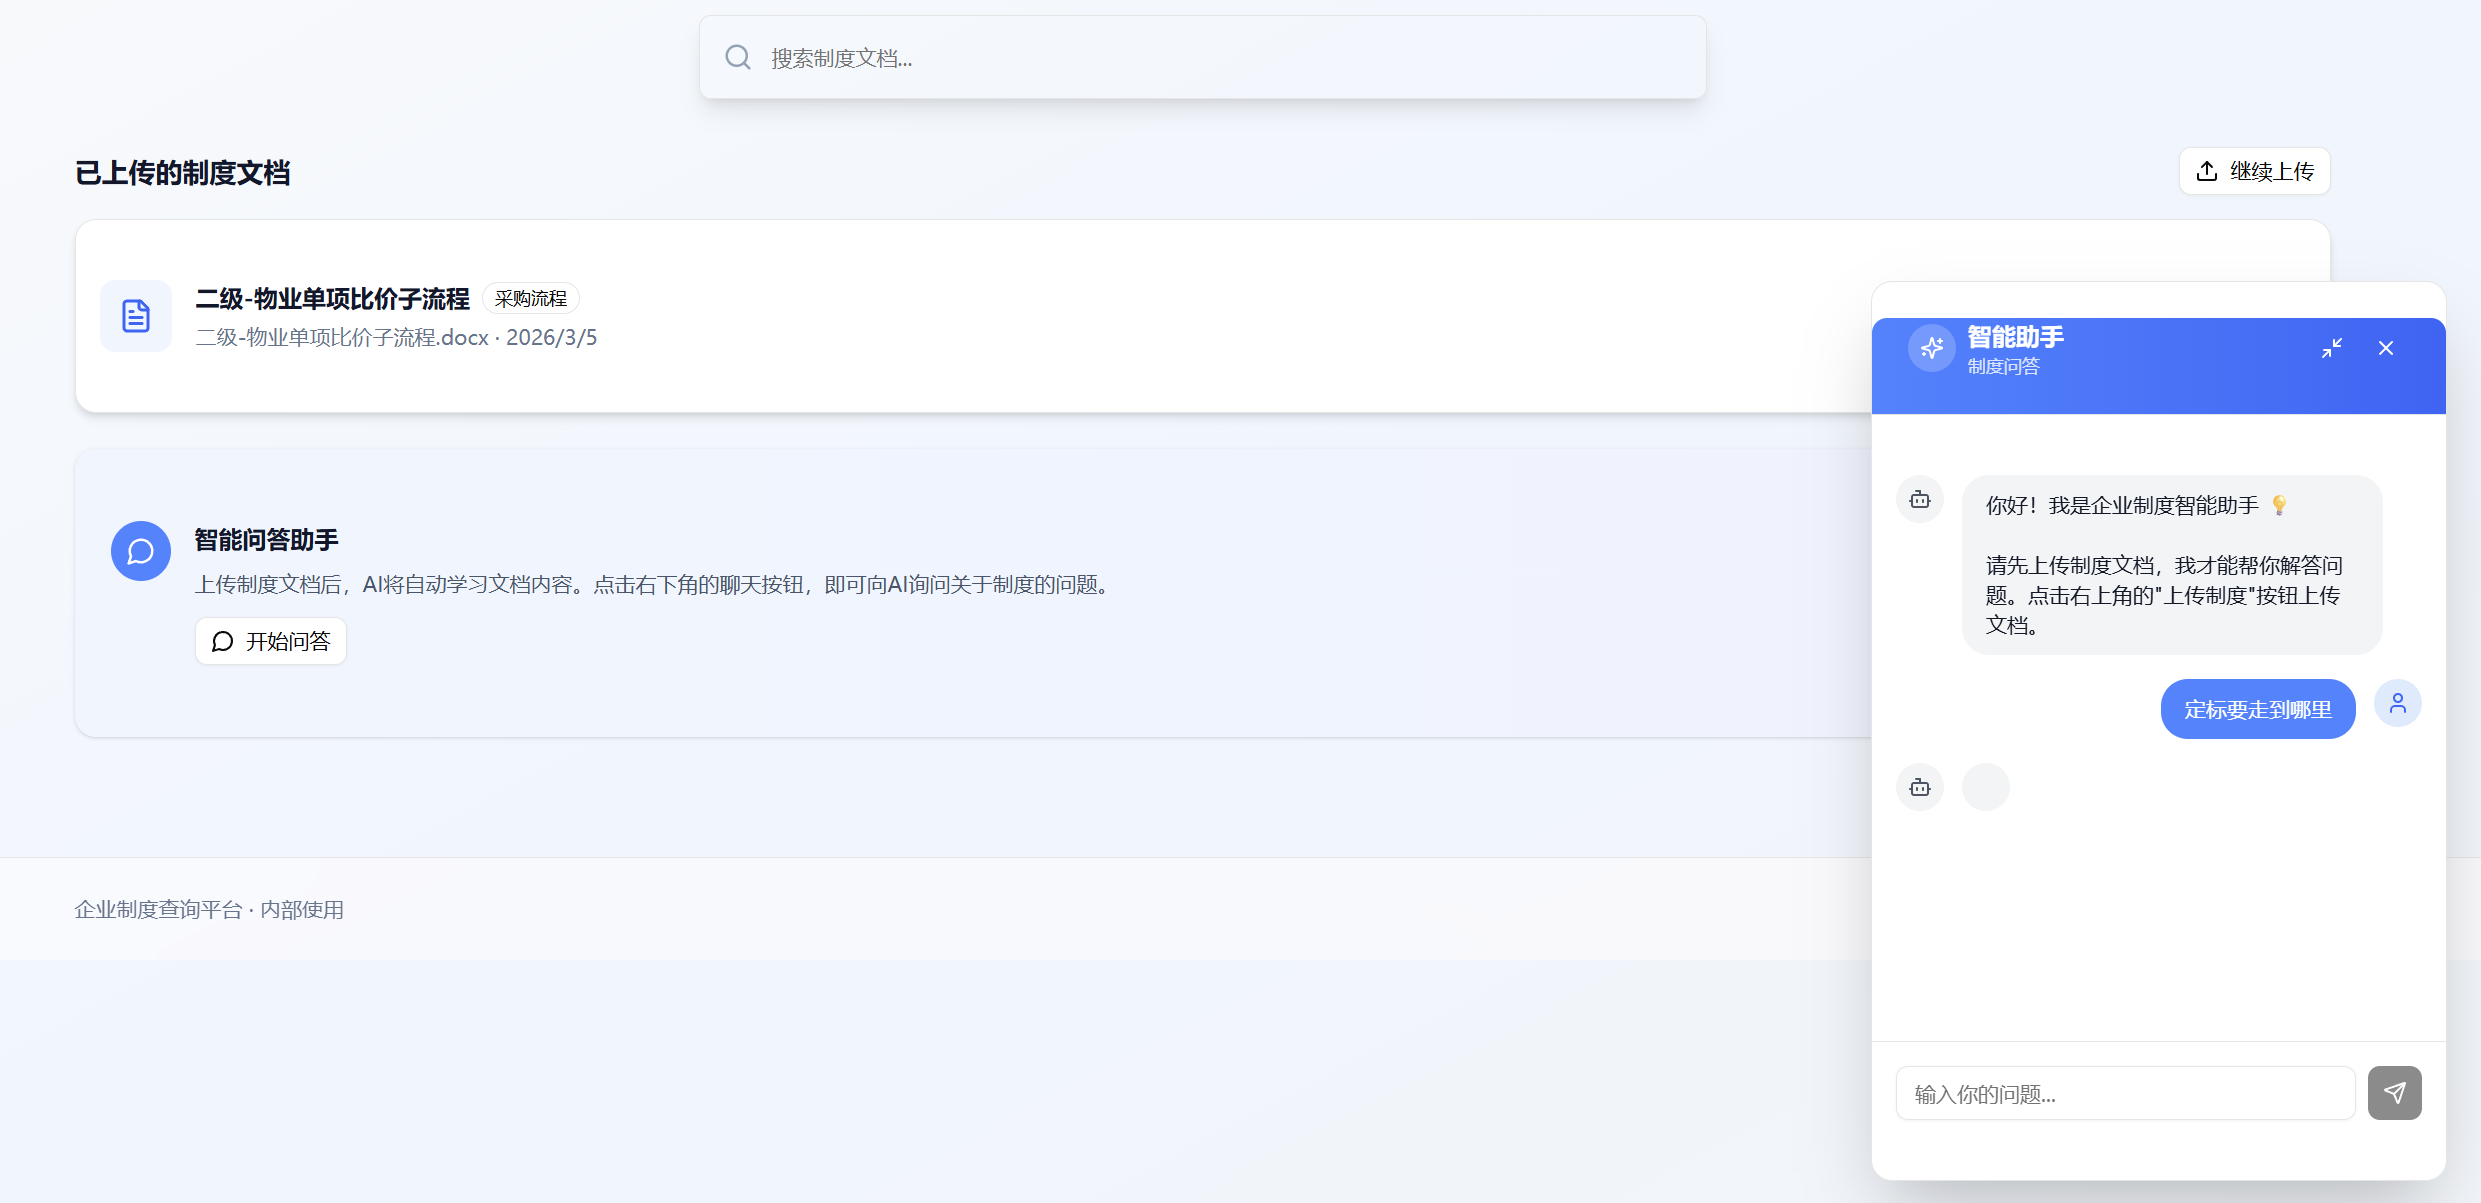
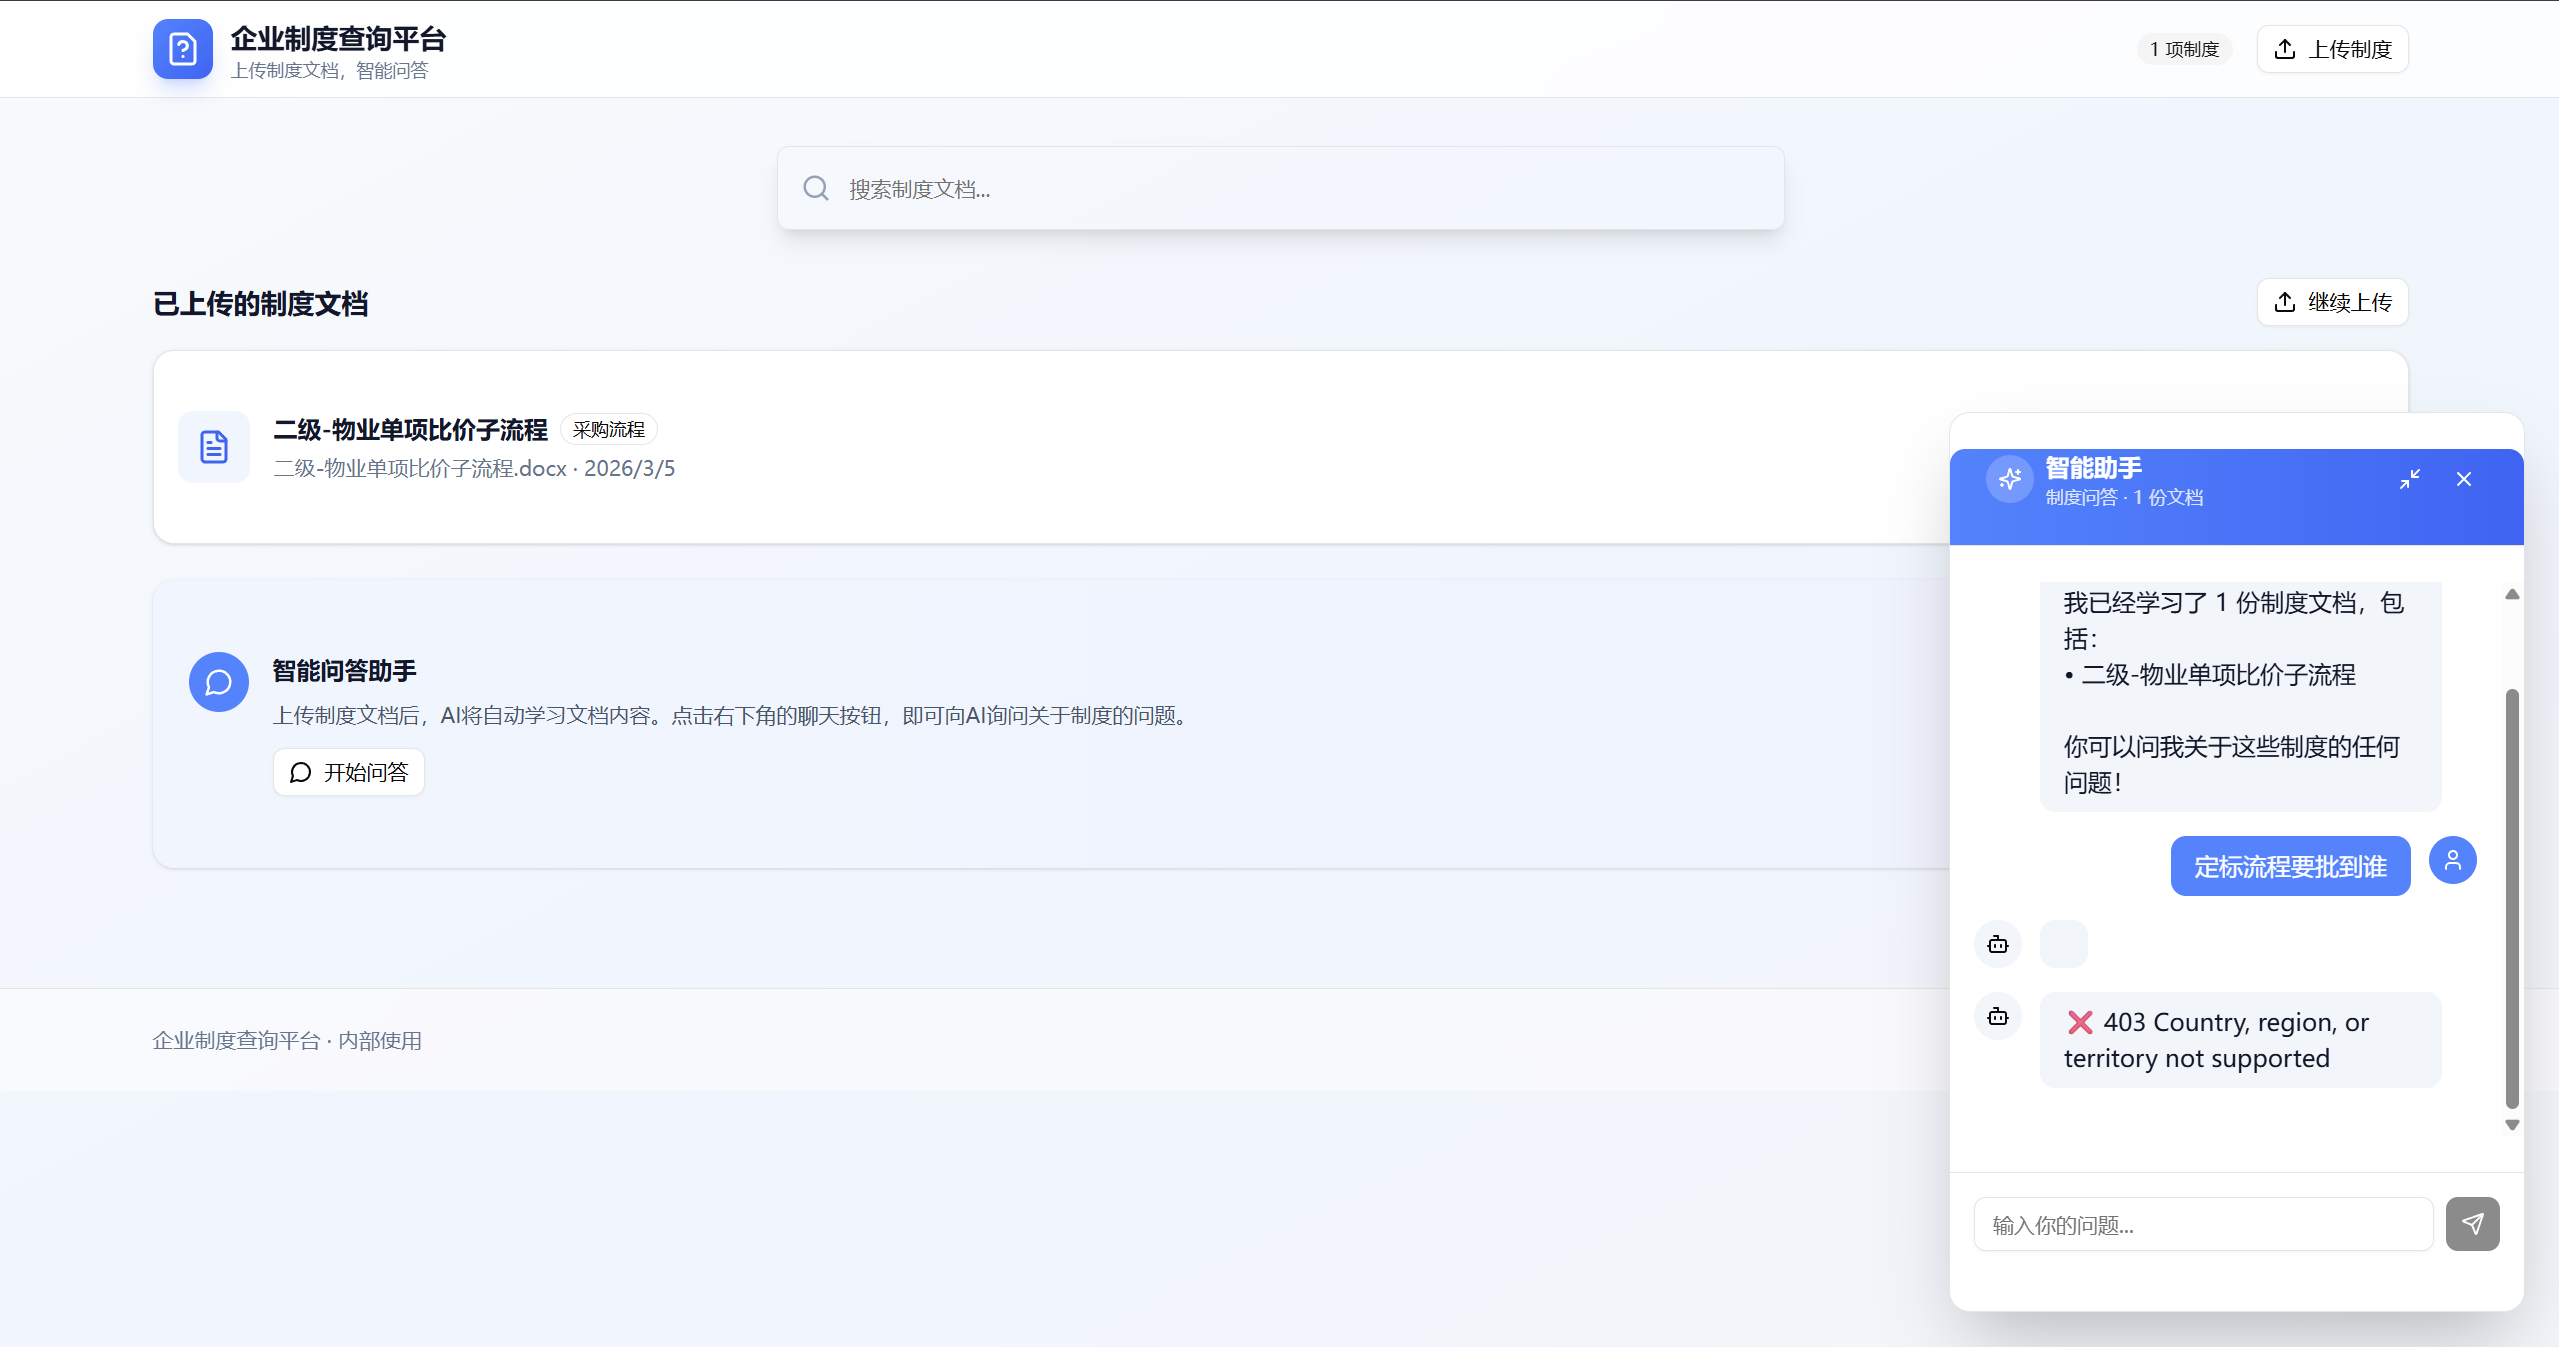
fix: 改用 DeepSeek API 解决地区限制问题
- 移除对火山引擎豆包 API 的依赖
- 支持 DeepSeek API（国内可直接访问）
- 同时兼容 OpenAI API
- 更新 README 配置说明

diff --git a/src/app/api/chat/route.ts b/src/app/api/chat/route.ts
@@ -1,5 +1,4 @@
 import { NextRequest } from 'next/server';
-import { LLMClient, Config } from 'coze-coding-dev-sdk';
 
 // 构建制度知识库上下文
 function buildKnowledgeContext(documents: any[]): string {
@@ -23,14 +22,17 @@ function buildKnowledgeContext(documents: any[]): string {
 
 export async function POST(request: NextRequest) {
   try {
-    // 检查 API Key 配置
-    const apiKey = process.env.DOUBAO_API_KEY;
+    // 检查 API Key 配置 - 支持 DeepSeek 或 OpenAI
+    const apiKey = process.env.DEEPSEEK_API_KEY || process.env.OPENAI_API_KEY;
+    const apiBaseUrl = process.env.DEEPSEEK_API_KEY 
+      ? 'https://api.deepseek.com/v1'
+      : process.env.OPENAI_API_BASE || 'https://api.openai.com/v1';
     
     if (!apiKey) {
-      console.error('DOUBAO_API_KEY not configured');
+      console.error('API Key not configured');
       return new Response(JSON.stringify({ 
         error: 'API Key 未配置',
-        message: '请在 Vercel 环境变量中配置 DOUBAO_API_KEY。\n\n获取方式：\n1. 访问 https://console.volcengine.com/ark\n2. 注册/登录火山引擎\n3. 开通豆包大模型服务\n4. 创建 API Key 并复制\n5. 在 Vercel 项目设置 → Environment Variables 中添加 DOUBAO_API_KEY'
+        message: '请在 Vercel 环境变量中配置 DEEPSEEK_API_KEY 或 OPENAI_API_KEY。\n\n推荐使用 DeepSeek（国内可直接访问）：\n1. 访问 https://platform.deepseek.com\n2. 注册/登录账号\n3. 创建 API Key\n4. 在 Vercel 添加环境变量 DEEPSEEK_API_KEY'
       }), {
         status: 500,
         headers: { 'Content-Type': 'application/json' },
@@ -49,10 +51,6 @@ export async function POST(request: NextRequest) {
 
     // 检查是否有文档
     const hasDocuments = documents && documents.length > 0;
-
-    // 使用用户配置的 API Key 初始化客户端
-    const config = new Config({ apiKey });
-    const client = new LLMClient(config);
 
     // 构建系统提示
     let systemPrompt: string;
@@ -91,38 +89,90 @@ ${knowledgeContext}
 
     // 构建完整的消息列表
     const fullMessages = [
-      { role: 'system' as const, content: systemPrompt },
+      { role: 'system', content: systemPrompt },
       ...messages.map((msg: any) => ({
-        role: msg.role as 'user' | 'assistant',
+        role: msg.role,
         content: msg.content,
       })),
     ];
 
-    // 创建流式响应
+    // 调用 OpenAI 兼容 API
+    const response = await fetch(`${apiBaseUrl}/chat/completions`, {
+      method: 'POST',
+      headers: {
+        'Content-Type': 'application/json',
+        'Authorization': `Bearer ${apiKey}`,
+      },
+      body: JSON.stringify({
+        model: process.env.DEEPSEEK_API_KEY ? 'deepseek-chat' : (process.env.OPENAI_MODEL || 'gpt-3.5-turbo'),
+        messages: fullMessages,
+        temperature: 0.7,
+        stream: true,
+      }),
+    });
+
+    if (!response.ok) {
+      const errorText = await response.text();
+      console.error('API error:', response.status, errorText);
+      
+      let errorMessage = `API 调用失败 (${response.status})`;
+      if (response.status === 401) {
+        errorMessage = 'API Key 无效，请检查配置';
+      } else if (response.status === 403) {
+        errorMessage = 'API 访问受限，建议使用 DeepSeek API（国内可直接访问）';
+      } else if (response.status === 429) {
+        errorMessage = 'API 请求频率超限，请稍后重试';
+      }
+      
+      return new Response(JSON.stringify({ error: errorMessage }), {
+        status: response.status,
+        headers: { 'Content-Type': 'application/json' },
+      });
+    }
+
+    // 流式转发响应
     const encoder = new TextEncoder();
     const stream = new ReadableStream({
       async start(controller) {
-        try {
-          const llmStream = client.stream(fullMessages, {
-            model: 'doubao-seed-1-6-251015',
-            temperature: 0.7,
-          });
+        const reader = response.body?.getReader();
+        if (!reader) {
+          controller.close();
+          return;
+        }
 
-          for await (const chunk of llmStream) {
-            if (chunk.content) {
-              const text = chunk.content.toString();
-              controller.enqueue(encoder.encode(`data: ${JSON.stringify({ text })}\n\n`));
+        const decoder = new TextDecoder();
+        
+        try {
+          while (true) {
+            const { done, value } = await reader.read();
+            if (done) break;
+
+            const chunk = decoder.decode(value, { stream: true });
+            const lines = chunk.split('\n');
+
+            for (const line of lines) {
+              if (line.startsWith('data: ')) {
+                const data = line.slice(6);
+                if (data === '[DONE]') {
+                  controller.enqueue(encoder.encode('data: [DONE]\n\n'));
+                  continue;
+                }
+
+                try {
+                  const parsed = JSON.parse(data);
+                  const content = parsed.choices?.[0]?.delta?.content;
+                  if (content) {
+                    controller.enqueue(encoder.encode(`data: ${JSON.stringify({ text: content })}\n\n`));
+                  }
+                } catch {
+                  // 忽略解析错误
+                }
+              }
             }
           }
-
-          controller.enqueue(encoder.encode('data: [DONE]\n\n'));
           controller.close();
-        } catch (error: any) {
+        } catch (error) {
           console.error('Stream error:', error);
-          const errorMessage = error?.message || '生成回复时出现错误';
-          controller.enqueue(
-            encoder.encode(`data: ${JSON.stringify({ error: errorMessage })}\n\n`)
-          );
           controller.close();
         }
       },

diff --git a/README.md b/README.md
@@ -14,31 +14,35 @@
 
 ### 第二步：配置 AI 功能（必须）
 
-部署完成后，AI 问答功能需要配置 API Key 才能使用：
+部署完成后，AI 问答功能需要配置 API Key 才能使用。
 
-#### 1. 获取豆包 API Key
+#### 推荐：使用 DeepSeek（国内可直接访问）
 
-1. 访问 [火山引擎控制台](https://console.volcengine.com/ark)
-2. 注册/登录火山引擎账号
-3. 开通「豆包大模型」服务（有免费额度）
-4. 点击左侧「API Key 管理」→「创建 API Key」
-5. 复制生成的 API Key
+1. 访问 [DeepSeek 开放平台](https://platform.deepseek.com)
+2. 注册/登录账号（支持微信扫码）
+3. 点击左侧「API Keys」→「创建 API Key」
+4. 复制生成的 API Key
 
-#### 2. 在 Vercel 中配置环境变量
+#### 在 Vercel 中配置环境变量
 
 1. 打开你的 Vercel 项目
 2. 点击 **Settings** → **Environment Variables**
 3. 添加新的环境变量：
-   - **Name**: `DOUBAO_API_KEY`
+   - **Name**: `DEEPSEEK_API_KEY`
    - **Value**: 粘贴你刚才复制的 API Key
 4. 点击 **Save**
 
-#### 3. 重新部署
+#### 重新部署
 
-配置完成后，需要重新部署才能生效：
 1. 点击 **Deployments** 标签
 2. 找到最新的部署记录，点击右侧的三个点 **...**
 3. 选择 **Redeploy**
+
+### 备选：使用 OpenAI
+
+如果你有 OpenAI API Key，也可以配置：
+- **Name**: `OPENAI_API_KEY`
+- **Value**: 你的 OpenAI API Key
 
 ## 本地开发
 
@@ -47,7 +51,7 @@
 pnpm install
 
 # 创建 .env.local 文件并配置 API Key
-echo "DOUBAO_API_KEY=你的API_Key" > .env.local
+echo "DEEPSEEK_API_KEY=你的API_Key" > .env.local
 
 # 启动开发服务器
 pnpm dev
@@ -74,9 +78,13 @@ pnpm dev
 ### Q: AI 不回答问题怎么办？
 
 请检查：
-1. 是否已在 Vercel 环境变量中配置 `DOUBAO_API_KEY`
+1. 是否已在 Vercel 环境变量中配置 `DEEPSEEK_API_KEY`
 2. 配置后是否已重新部署项目
-3. API Key 是否有效（可以在火山引擎控制台查看）
+3. API Key 是否有效（可以在 DeepSeek 控制台查看）
+
+### Q: 出现 403 错误？
+
+如果使用豆包 API 出现地区限制错误，请改用 DeepSeek API，国内可直接访问。
 
 ### Q: 上传 PDF/Word 后内容为空？
 
